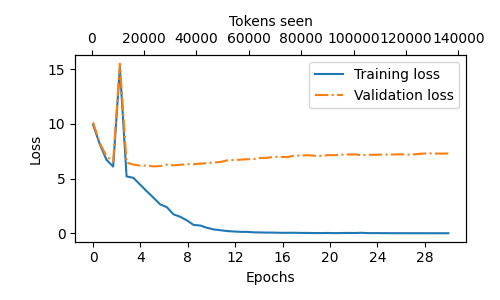
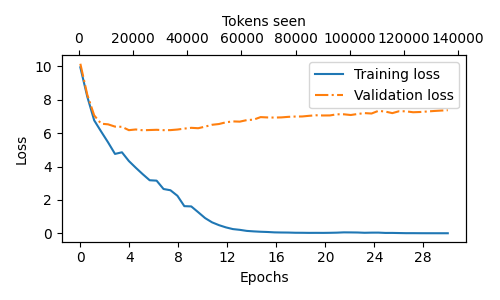
adding scaler and gradient clipping

diff --git a/Scripts/train.py b/Scripts/train.py
@@ -4,11 +4,11 @@ sys.path.append(os.path.abspath(os.path.join(os.path.dirname(__file__), '..')))
 
 import torch
 from torch.utils.data import DataLoader, TensorDataset
-from LLM import create_txt_dataloader, load_tabular_data, load_text_data, preprocess_data, TransformerBlock, train_model, evaluate_model, save_model, load_model, GPTModel
-from LLM.data_preprocessing import tokenize_text
+from Source import create_txt_dataloader, load_tabular_data, load_text_data, preprocess_data, TransformerBlock, train_model, evaluate_model, save_model, load_model, GPTModel
+from Source.data_preprocessing import tokenize_text
 import tiktoken
-from LLM.utils import calculate_loss_loader
-from LLM.training import train_model
+from Source.utils import calculate_loss_loader
+from Source.training import train_model
 from visualization import plot_losses
 
 GPT_CONFIG_124M = {
@@ -79,6 +79,8 @@ model.to(device)
 torch.manual_seed(123) # For reproducibility due to the shuffling in the data loader
 
 optimizer = torch.optim.AdamW(model.parameters(), lr=0.0004, weight_decay=0.1)
+#define scheduler
+scheduler = torch.optim.lr_scheduler.CosineAnnealingLR(optimizer, T_max = 50, eta_min = 0.0001)
 num_epochs = 30
 
 train_losses, val_losses, track_tokens_seen = train_model(
@@ -86,6 +88,7 @@ train_losses, val_losses, track_tokens_seen = train_model(
     train_loader = train_loader,
     val_loader = val_loader, 
     optimizer = optimizer,
+    scheduler= scheduler,
     epochs = num_epochs,
     eval_freq = 5, 
     eval_iter = 5, 

diff --git a/Source/training.py b/Source/training.py
@@ -5,15 +5,16 @@ import os
 import sys
 sys.path.append(os.path.abspath(os.path.join(os.path.dirname(__file__), '..')))
 
-from LLM.utils import calculate_loss_loader, generate_and_print_samples, calculate_loss_batch
+from Source.utils import calculate_loss_loader, generate_and_print_samples, calculate_loss_batch
 
-def train_model(model, train_loader, val_loader, optimizer, epochs,
+def train_model(model, train_loader, val_loader, optimizer, scheduler,  epochs,
                 eval_freq, eval_iter, start_context, tokenizer, device):
     
     # Initialize lists to track losses and tokens seen
     train_losses, val_losses, track_tokens_seen = [], [], []
     tokens_seen = 0
     global_step = -1
+    max_grad_norm = 1.0
     for epoch in range(epochs):
         model.train()  # Set model to training mode
         
@@ -21,7 +22,9 @@ def train_model(model, train_loader, val_loader, optimizer, epochs,
             optimizer.zero_grad() # Reset loss gradients from previous batch iteration
             loss = calculate_loss_batch(model, input_batch, target_batch, device)
             loss.backward() # Calculate loss gradients
+            torch.nn.utils.clip_grad_norm_(model.parameters(), max_grad_norm) # Clip gradients to avoid exploding gradients
             optimizer.step() # Update model weights using loss gradients
+            scheduler.step() # Update learning rate
             tokens_seen += input_batch.numel()
             global_step += 1
 

diff --git a/Test/word_generation.py b/Test/word_generation.py
@@ -4,9 +4,9 @@ sys.path.append(os.path.abspath(os.path.join(os.path.dirname(__file__), '..')))
 
 import torch
 from torch.utils.data import DataLoader, TensorDataset
-from LLM.data_preprocessing import tokenize_text, IDs_to_text
-from LLM.dataloader import create_txt_dataloader
-from LLM import *
+from Source.data_preprocessing import tokenize_text, IDs_to_text
+from Source.dataloader import create_txt_dataloader
+from Source import *
 import tiktoken
 
 GPT_CONFIG_124M = {

diff --git a/Source/utils.py b/Source/utils.py
@@ -4,7 +4,7 @@ import sys
 import os
 sys.path.append(os.path.abspath(os.path.join(os.path.dirname(__file__), '..')))
 
-from LLM.data_preprocessing import tokenize_text, IDs_to_text
+from Source.data_preprocessing import tokenize_text, IDs_to_text
 from Test.word_generation import generate_text_simple
 class save_model:
     def __init__(self, model, path):
